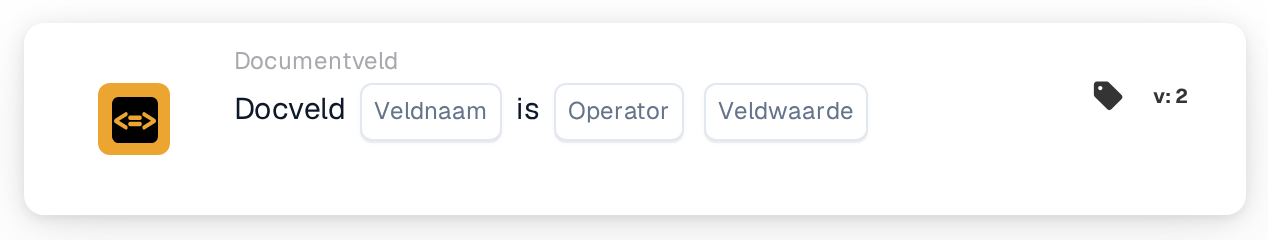
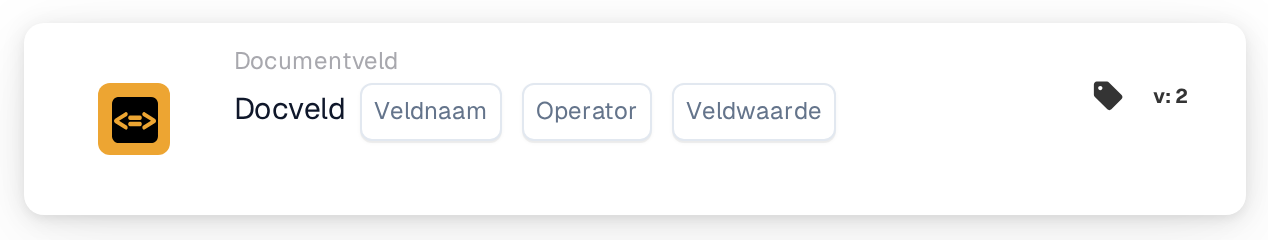
[Documentation_Workflow_Cards] [DRFS-881] document new docfield operators is one of and regex

diff --git a/public_docs/administration-and-setup/workflow/and/document-field/docfield-is.md b/public_docs/administration-and-setup/workflow/and/document-field/docfield-is.md
@@ -28,39 +28,94 @@ Bijvoorbeeld een tweede goedkeuring voor grote facturen: Totaalbedrag groter dan
 
 ## **Doel:**
 
-Deze workflow-kaart is ontworpen om acties te automatiseren door de waarde van een opgegeven documentveld te vergelijken met een referentiewaarde of -voorwaarde. Hij zorgt voor dynamische en nauwkeurige besluitvorming in workflows op basis van validatie van documentgegevens.
+Deze kaart vergelijkt één veld van het document met een waarde die u op de kaart invoert. Gebruik haar om documenten afhankelijk van een veldwaarde langs verschillende paden te sturen, bijvoorbeeld een tweede goedkeuring voor grote facturen of een aparte route voor enkele leveranciers.
+
+Op de kaart staat: **Docveld** [Veldnaam] [Operator] [Field Value].
 
 ## **Onderdelen van de kaart:**
 
 1. **Veldnaam**
-   * **Beschrijving:** Geeft de naam op van het te evalueren documentveld.
-   * **Details:** Dit moet exact overeenkomen met de identifier van het veld binnen het document.
-2. **Exploitanten**
-   * **Beschrijving:** Definieert het type vergelijking dat tussen de veldwaarde en de referentiewaarde wordt uitgevoerd.
-   * **Opties:**
-     * **Is gelijk aan (=):** Controleert of de veldwaarde overeenkomt met de referentiewaarde.
-     * **Niet gelijk aan (≠):** Zorgt ervoor dat de veldwaarde verschilt van de referentiewaarde.
-     * **Groter dan (>):** Bevestigt dat de veldwaarde groter is dan de referentiewaarde.
-     * **Groter of gelijk aan (≥):** Valideert dat de veldwaarde gelijk is aan of groter is dan de referentiewaarde.
-     * **Kleiner dan (<):** Controleert of de veldwaarde kleiner is dan de referentiewaarde.
-     * **Minder of gelijk aan (≤):** Zorgt ervoor dat de veldwaarde kleiner dan of gelijk is aan de referentiewaarde.
+   * Het documentveld dat wordt gecontroleerd, gekozen uit de velden van het documenttype.
+2. **Operator**
+   * Hoe de veldwaarde met de **Field Value** wordt vergeleken. Welke operatoren zinvol zijn, hangt af van het type van het veld, zie **Operatoren** hieronder.
+3. **Field Value**
+   * De waarde waarmee wordt vergeleken. Afhankelijk van de operator is dit één waarde, een door komma's gescheiden lijst of een reguliere expressie.
 
-## **Functionaliteit:**
+## **Operatoren:**
 
-* **Voorwaarde-evaluatie:** Het systeem controleert of de waarde van het documentveld, in relatie tot de bijbehorende kolom, aan de door de operator en referentiewaarde opgegeven vergelijkingsvoorwaarde voldoet.
-* **Actie-uitvoering:**
-  * **True-voorwaarde:**\
-    Als de waarde van het documentveld aan de opgegeven voorwaarde voldoet (bijv. gelijk aan de referentiewaarde), triggert het systeem de bijbehorende acties. Deze kunnen het bijwerken van records, het voortzetten van de workflow of het genereren van meldingen omvatten.
-  * **False-voorwaarde:**\
-    Als de waarde van het documentveld niet aan de opgegeven voorwaarde voldoet, worden alternatieve acties of geen acties uitgevoerd, op basis van de workflow-configuratie.
+| Operator | Voldaan als | Veldtypen |
+| --- | --- | --- |
+| **is gelijk aan** (=) | de veldwaarde gelijk is aan de Field Value | tekst, getal, bedrag, datum |
+| **Niet gelijk** (≠) | de veldwaarde verschilt van de Field Value | tekst, getal, bedrag, datum |
+| **Groter dan** (>) | de veldwaarde groter is dan de Field Value | getal, bedrag, datum |
+| **Groter of gelijk aan** (≥) | de veldwaarde groter dan of gelijk aan de Field Value is | getal, bedrag, datum |
+| **Minder dan** (<) | de veldwaarde kleiner is dan de Field Value | getal, bedrag, datum |
+| **Kleiner of gelijk aan** (≤) | de veldwaarde kleiner dan of gelijk aan de Field Value is | getal, bedrag, datum |
+| **Is een van** | de veldwaarde gelijk is aan één item van een door komma's gescheiden lijst | tekst |
+| **Is geen van** | de veldwaarde aan geen van de items van de lijst gelijk is | tekst |
+| **Komt overeen met regex** | de reguliere expressie in de veldwaarde wordt gevonden | tekst, getal, bedrag, datum |
+| **Komt niet overeen met regex** | de reguliere expressie niet in de veldwaarde wordt gevonden | tekst, getal, bedrag, datum |
+
+Booleaanse velden (selectievakjes) worden door deze kaart niet ondersteund. Gebruik daarvoor **Selectievakje is aangevinkt**.
+
+### is gelijk aan en Niet gelijk bij tekstvelden
+
+Tekst wordt vergeleken zonder rekening te houden met hoofdletters, en een spatie telt hetzelfde als een underscore: `Acme Freight` is gelijk aan `acme_freight`. Spaties aan het begin en einde worden genegeerd.
+
+### Is een van en Is geen van
+
+Gebruik deze operatoren om een tekstveld in één keer met meerdere waarden te vergelijken, bijvoorbeeld met een lijst leveranciers-ID's.
+
+* Voer de waarden in als door komma's gescheiden lijst: `40321,40322,40388`.
+* De veldwaarde moet exact gelijk zijn aan één item. Een gedeeltelijke waarde is geen overeenkomst: `4032` is geen item van `40321,40322,40388`, en een langere waarde zoals `403210` evenmin.
+* Hoofdletters maken niet uit, en een spatie telt hetzelfde als een underscore. Spaties rond de items worden genegeerd, en lege items zoals het item in `a,,b` worden overgeslagen.
+* Om een komma binnen een waarde te gebruiken, schrijft u die als `\,`. `Acme Freight\, LLC,Riverside Supply` is een lijst van twee items: `Acme Freight, LLC` en `Riverside Supply`.
+* Een lege veldwaarde staat in geen enkele lijst. **Is een van** is dan niet voldaan, en **Is geen van** is voldaan.
+* Deze operatoren werken alleen bij tekstvelden. Bij een getal-, bedrag- of datumveld, of bij een lijst zonder items (bijvoorbeeld alleen komma's), eindigt de kaart met een fout.
+
+### Komt overeen met regex en Komt niet overeen met regex
+
+Gebruik deze operatoren wanneer een patroon beslist, bijvoorbeeld "begint met" of "bestaat alleen uit cijfers".
+
+* De **Field Value** is een reguliere expressie in Python-syntaxis. Er wordt overal in de veldwaarde naar gezocht: `Freight` komt overeen met `Acme Freight, LLC`.
+* Gebruik `^` en `$` om de hele waarde te controleren: `^33` betekent "begint met 33", en `^(40321|40322|40388)$` betekent "exact een van deze waarden".
+* Het patroon is hoofdlettergevoelig. Begin het met `(?i)` om hoofdletters te negeren: `(?i)freight` komt ook overeen met `Acme Freight, LLC`.
+* `^` en `$` verwijzen naar de hele veldwaarde. Begin het patroon met `(?m)` om ze op elke regel van een waarde met meerdere regels toe te passen.
+* Het patroon wordt exact gebruikt zoals u het typt. Het wordt niet ingekort en hoofdletters blijven behouden, zodat `\D` (elk teken dat geen cijfer is) zijn betekenis houdt, en een patroon dat uit één spatie bestaat naar een spatie zoekt.
+* Tekens met een speciale betekenis in reguliere expressies moeten worden geëscaped om letterlijk te worden gevonden: `\(copy\)` komt overeen met de tekst `(copy)`, terwijl `(copy)` een groep is die het woord `copy` vindt.
+* Getallen, bedragen en datums worden vergeleken als de tekst waarin ze zijn opgeslagen: een bedrag van 997.60 komt overeen met `^997\.60$`.
+* Een lege veldwaarde wordt als lege tekst vergeleken, dus `^$` komt ermee overeen.
+* Een ongeldig patroon, bijvoorbeeld `(20` met een ontbrekend haakje, beëindigt de kaart met een fout. Hetzelfde gebeurt wanneer een patroon te lang duurt voor een waarde (meer dan 0,05 seconden), wat alleen voorkomt bij slecht opgebouwde patronen zoals `(a|aa)+$`. In beide gevallen is de kaart voldaan noch niet voldaan, dus **Komt niet overeen met regex** slaagt nooit door een kapot patroon.
+
+## **Hoe de kaart werkt:**
+
+* **Veld niet op het document:** als het document geen veld met de gekozen naam heeft, stopt de kaart en meldt ze dat het veld niet is gevonden, ongeacht de operator.
+* **Voorwaarde voldaan:** de Workflow gaat verder met de volgende kaart (in de Advanced Workflow via de succesuitgang).
+* **Voorwaarde niet voldaan:** de Workflow stopt bij deze kaart (in de Advanced Workflow neemt ze de uitgang voor een niet-vervulde voorwaarde).
+* **Fout:** een operator die niet bij het veldtype past, een ontbrekende Field Value, een lege lijst of een onbruikbaar patroon beëindigen de kaart met een fout. Het kaartlogboek toont de reden.
 
 ## **Opzet en configuratie:**
 
-* De gebruiker de veldnaam van het relevante document selecteert en de operator uit het dropdownmenu kiest. Vervolgens geeft de gebruiker de referentieveldwaarde op om de configuratie te voltooien.
+Kies het veld bij **Veldnaam**, de operator bij **Operator** en voer de waarde in bij **Field Value**. Voer bij getallen en bedragen de waarde in zonder valutasymbool en met een decimale punt, bijvoorbeeld `1000.50`.
+
+Om een configuratie te proberen zonder op een document te wachten, opent u het kaartmenu in de **Workflow Builder**, kiest u **Testkaart**, kiest u een document en selecteert u **Test op document**. Het kaartlogboek toont de veldwaarde, de operator en het resultaat.
+
+## **Voorbeelden:**
+
+| Doel | Veldnaam | Operator | Field Value | Veldwaarde op het document | Resultaat |
+| --- | --- | --- | --- | --- | --- |
+| Tweede goedkeuring voor grote facturen | Totaalbedrag | Groter dan | `10000` | 12500.00 | voldaan |
+| Enkele leveranciers routeren | Leveranciers-ID | Is een van | `40321,40322,40388` | 40322 | voldaan |
+| | | | | 4032 | niet voldaan |
+| Een leverancier met een komma in de naam overslaan | Leveranciersnaam | Is geen van | `Acme Freight\, LLC` | Acme Freight, LLC | niet voldaan |
+| Ordernummers die met 33 beginnen | Ordernummer | Komt overeen met regex | `^33` | 33012 | voldaan |
+| | | | | 13301 | niet voldaan |
+| Referentie met letters | Referentie | Komt overeen met regex | `\D` | AB-1204 | voldaan |
+| Kopieën van facturen | Factuurnummer | Komt niet overeen met regex | `\(copy\)` | INV-1204 (copy) | niet voldaan |
 
 ## **Conclusie:**
 
-De workflow-kaart "DocField Comparison Validation" is een robuust hulpmiddel voor dynamische documentverwerking. Door acties te automatiseren op basis van veldvergelijkingen stroomlijnt deze kaart workflows, verbetert hij de nauwkeurigheid en ondersteunt hij datagedreven besluitvorming.
+De kaart controleert één documentveld tegen een waarde, een lijst of een patroon. Gebruik **Is een van** voor vaste lijsten van waarden en **Komt overeen met regex** voor patronen zoals voorvoegsels of formaten.
 
 <!-- workflow-card-practical-example-20261021 -->
 

diff --git a/public_docs/administration-and-setup/workflow/masterclass/field-conditions.md b/public_docs/administration-and-setup/workflow/masterclass/field-conditions.md
@@ -62,7 +62,7 @@ Een waarde `"1000.01"` in een AMOUNT-veld is niet hetzelfde als dezelfde tekens 
 
 ## Kaarten en voorbeeldparameters
 
-Deze waarden beschrijven parameters van afzonderlijke kaarten, niet een volledig importeerbare workflow. Vervang YOUR\_\* door uw eigen testkeuzes. De verborgen aanroeper-ID beheert de ontwerper. Catalogus: Dev, DocFlow 2.10.38, 21 oktober 2026; controleer beschikbare versies en rechten in uw eigen organisatie.
+Deze waarden beschrijven parameters van afzonderlijke kaarten, niet een volledig importeerbare Workflow. Vervang YOUR\_\* door uw eigen testkeuzes. De verborgen aanroeper-ID beheert de ontwerper. Catalogus: Dev, DocFlow 2.10.38, 21 oktober 2026; controleer beschikbare versies en rechten in uw eigen organisatie.
 
 ### `condition_docfield_status` · v2
 
@@ -79,7 +79,7 @@ Identiteit: `1c35a5a0-1592-446c-9a61-6abb14d27450`
 
 | Parameter | Type / keuzes | Voorbeeld |
 | --- | --- | --- |
-| `operator` | `eq / neq / gt / ge / lt / le` | `"gt"` |
+| `operator` | `eq / neq / gt / ge / lt / le / cont / not_cont / matches_regex / not_matches_regex` | `"gt"` |
 | `field_name` | `field_name:str` | `"total_amount"` |
 | `field_value` | `field_value:str` | `"1000"` |
 
